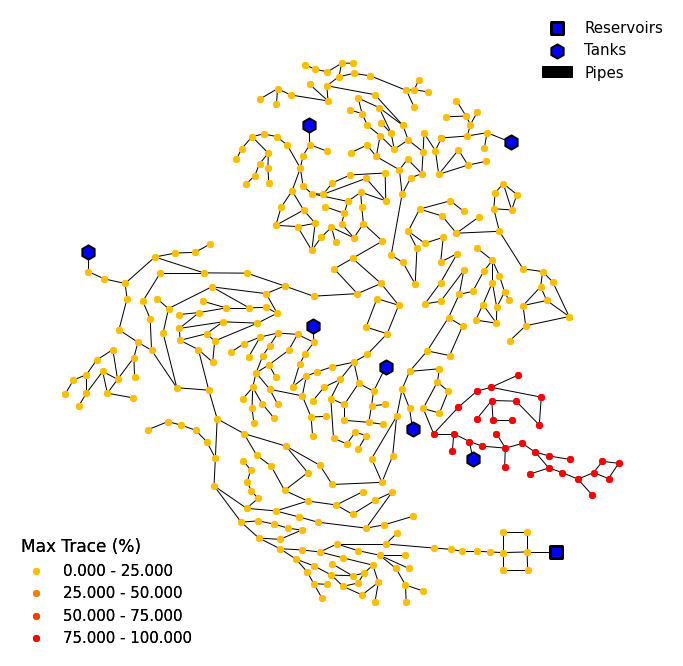
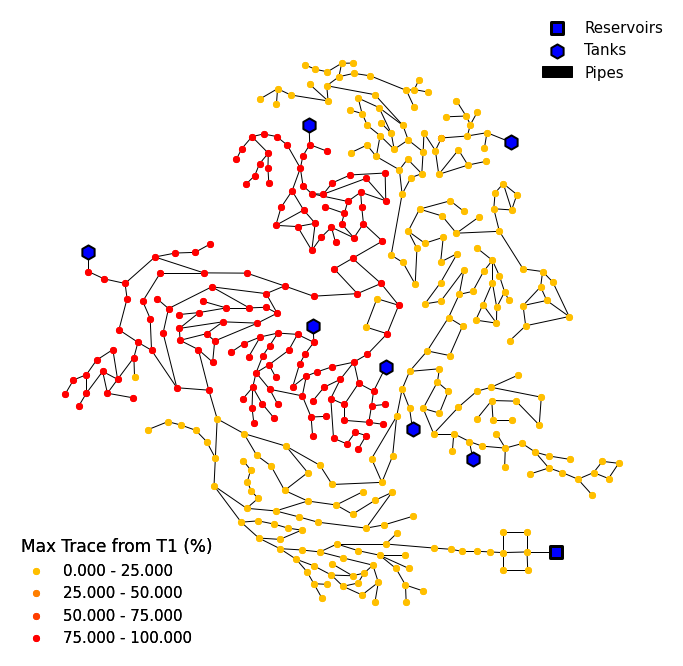
Update example files

diff --git a/Examples/meanstd.py b/Examples/meanstd.py
@@ -3,46 +3,43 @@ import visnet.drawing as visplot
 import matplotlib.pyplot as plt
 
 # Run EPANET2.0 Simulation and store results
-model = visinit.initialize_model(r"Networks/CTown.inp")  
+model = visinit.initialize_model(r"Networks/CTown.inp")
 
 # Define figure to be drawn to
-fig, ax = plt.subplots(figsize=(12, 12))  
+fig, ax = plt.subplots(figsize=(12, 12))
 
 # Disables frame around figure
 ax.set_frame_on(False)
 
+#Get mean pressure at each node
 mean, element_list = visinit.get_parameter(
     model, "node", parameter="pressure", value="mean"
 )
+#Get standard deviation at  each node
 standard_deviation, element_list = visinit.get_parameter(
     model, "node", parameter="pressure", value="stddev"
-)
-
-binnedParameter, bin_names = visinit.bin_parameter(
+    )
+#Bin standard deviation values
+binnedParameter, interval_names = visinit.bin_parameter(
     model, standard_deviation, element_list, 5
 )
-
-bin_sizes = [100, 200, 300, 400]
-node_sizes = []
-
-for element in element_list:
-    for bin_name, size in zip(bin_names, bin_sizes):
-        if element in binnedParameter.get(bin_name):
-            node_sizes.append(size)
-bin_names = bin_names.tolist()
+#Set bin_sizes and create node_sizes array
+interval_sizes = [100, 200, 300, 400]
+node_sizes = [None]*len(element_list)
+#Set node_sizes according to bin_sizes
+for interval_name, size in zip(interval_names, interval_sizes):
+    for element in binnedParameter[interval_name]:
+        node_sizes[element_list.index(element)]=size
+#Plot continuous mean data and pass custom node_sizes
 visplot.plot_unique_data(
-    model,
-    ax,
-    parameter="custom_data",
-    parameter_type="node",
-    data_type="continuous",
-    custom_data_values=[element_list, mean],
-    color_bar_title="Mean Pressure (m)",
-    cmap="gist_heat_r",
+    model,ax,parameter="custom_data",
+    parameter_type="node",data_type="continuous",
+    custom_data_values=[element_list,mean],
+    color_bar_title="Mean Pressure (m)",cmap="gist_heat_r",
     node_size=node_sizes,
     element_size_bins=4,
     element_size_legend_title="Standard Deviation (m)",
     element_size_legend_loc="lower left",
-    element_size_legend_labels=bin_names,
+    element_size_legend_labels=interval_names,
 )
 plt.show()

diff --git a/Examples/trace_maxtrace.py b/Examples/trace_maxtrace.py
@@ -1,50 +1,30 @@
-# -*- coding: utf-8 -*-
-"""
-Created on Sat Oct  8 17:18:55 2022
-
-@author: Tyler
-"""
-
-# -*- coding: utf-8 -*-
-"""
-Created on Sat Oct  8 16:36:38 2022
-
-@author: Tyler
-"""
 import visnet.network as visinit
 import visnet.drawing as visplot
 import wntr
 import matplotlib.pyplot as plt
 
-wn = wntr.network.WaterNetworkModel(r'Networks/CTown.inp')
-model = visinit.initialize_model(r'Networks/CTown.inp',network_model=wn)
-
-wn.options.quality.parameter = 'TRACE'
 
 # Define figure to be drawn to
-fig, ax = plt.subplots(figsize=(12, 12))  
+fig, ax = plt.subplots(figsize=(12, 12))
 
 # Disables frame around figure
 ax.set_frame_on(False)
+wn = wntr.network.WaterNetworkModel(r"Networks/CTown.inp")
+wn.options.quality.parameter = "TRACE"
+wn.options.quality.trace_node = "T1"
+model = visinit.initialize_model(r"Networks/CTown.inp", network_model=wn)
 
-wn.options.quality.trace_node = "T3"
-model = visinit.initialize_model(r'Networks/CTown.inp',network_model=wn)
-visplot.plot_discrete_nodes(model, 
-                         ax, 
-                         parameter='quality',
-                         value='max',
-                         legend_loc_2='lower left',
-                         legend_title='Max Trace (%)',
-                         valves=False,
-                         pumps=False,
-                         disable_bin_deleting=True)
-visplot.draw_label(model,
-                   ax,
-                   labels=['T3'],
-                   x_coords=[0],
-                   y_coords=[-150],
-                   nodes=['T3'],
-                   draw_arrow=False,
-                   label_font_size=9
-                   )
+visplot.plot_discrete_nodes(
+    model,ax,
+    parameter="quality",value="max",
+    legend_loc_2="lower left",legend_title="Max Trace from T1 (%)",
+    valves=False,pumps=False,
+    disable_bin_deleting=True,
+)
+visplot.draw_label(
+    model,ax,
+    labels=["T1"],nodes=["T1"],
+    x_coords=[0],y_coords=[150],
+    draw_arrow=False,label_font_size=9,
+)
 plt.show()

diff --git a/Examples/nodalerror.py b/Examples/nodalerror.py
@@ -19,32 +19,29 @@ fig, ax = plt.subplots(figsize=(12, 12))
 ax.set_frame_on(False)
 
 
-wn = wntr.network.WaterNetworkModel(r'Networks/CTown.inp')
-model = visinit.initialize_model(r'Networks/CTown.inp',network_model=wn)
+#Create water network model
+wn = wntr.network.WaterNetworkModel(r"Networks/CTown.inp")
+model = visinit.initialize_model(r"Networks/CTown.inp", network_model=wn)
+#Generation of error data
 random.seed(1)
 error_list = []
-element_list=wn.junction_name_list
+element_list = wn.junction_name_list
 for _, junc in wn.junctions():
     try:
         pat = junc.demand_timeseries_list[0].pattern.name
-        if pat == 'DMA2_pat' or pat == 'DMA5_pat' or pat == 'DMA3_pat':
+        if pat == "DMA2_pat" or pat == "DMA5_pat" or pat == "DMA3_pat":
             error_list.append(0)
         else:
-            error_list.append(random.uniform(-8,5))
+            error_list.append(random.uniform(-8, 5))
     except AttributeError:
         error_list.append(0)
-        
-visplot.plot_unique_data(model,
-                             ax,
-                             parameter='custom_data',
-                             node_size=200,
-                             line_widths=1,
-                             edge_colors='k',
-                             parameter_type='node',
-                             data_type='continuous',
-                             custom_data_values=[element_list,error_list],
-                             color_bar_title='Error (%)',
-                             cmap='bwr',
-                             draw_color_bar=True)
+#Plot nodal error data by treating it as custom data
+visplot.plot_unique_data(
+    model,ax,
+    parameter="custom_data",node_size=200,line_widths=1,
+    edge_colors="k",parameter_type="node",data_type="continuous",
+    custom_data_values=[element_list, error_list],
+    color_bar_title="Error (%)",cmap="bwr",draw_color_bar=True,
+)
 
 plt.show()

diff --git a/Examples/water_age.py b/Examples/water_age.py
@@ -1,8 +1,6 @@
 import visnet.network as visinit
 import visnet.drawing as visplot
 import matplotlib.pyplot as plt
-from matplotlib.colors import LinearSegmentedColormap
-import os
 
 # Run EPANET2.0 Simulation and store results
 model = visinit.initialize_model(r"Networks/CTown.inp")  
@@ -12,25 +10,18 @@ fig, ax = plt.subplots(figsize=(12, 12))
 
 # Disables frame around figure
 ax.set_frame_on(False)
-
+#Plot maximum water age in hours
 visplot.plot_discrete_nodes(
-    model,
-    ax,
-    parameter="quality",
-    value='max',
-    unit="hr",
-    bin_edge_num=5,
-    bins=[0,6,12,24],
-    bin_size_list=[100, 150, 250, 400], #Node sizes
-    bin_border_list=["k", "k", "k", "k"],
-    bin_border_width_list=[1, 1, 1, 1],
-    cmap='Greens',
-    legend_loc_2="lower left",
-    legend_title="Max Water Age (hr)",
-    font_color="k",
+    model,ax,
+    parameter="quality",value='max',unit="hr",
+    bin_edge_num=5,bins=[0,6,12,24,48],
+    bin_size_list=[100,150,250,350,450], #Node sizes
+    bin_border_list=['k','k','k','k','k'],
+    bin_border_width_list=[1,1,1,1,1],
+    cmap='Greens',legend_loc_2="lower left",
+    legend_title="Max Water Age (hr)",font_color="k",
     legend_title_font_size="16",
     legend_sig_figs=0, #No decimal places
-    pumps=False,
-    valves=False,
+    pumps=False,valves=False,
 )
 plt.show()

diff --git a/Examples/demand_patterns.py b/Examples/demand_patterns.py
@@ -14,14 +14,13 @@ Created on Sat Oct  8 16:36:38 2022
 import visnet.network as visinit
 import visnet.drawing as visplot
 import matplotlib.pyplot as plt
-import os
 
 model = visinit.initialize_model(r'Networks/CTown.inp')
 
 fig, ax = plt.subplots(figsize=(12,12))
 
 ax.set_frame_on(False);
-
+#Plot demand pattern for each node
 visplot.plot_unique_data(
     model,
     ax,
